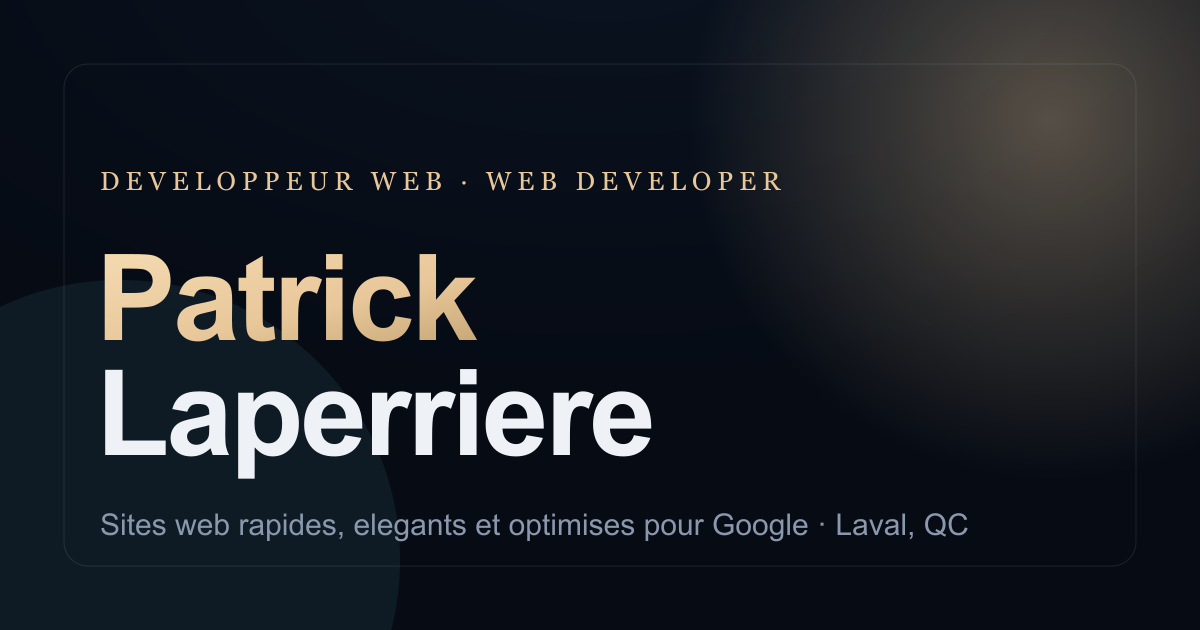
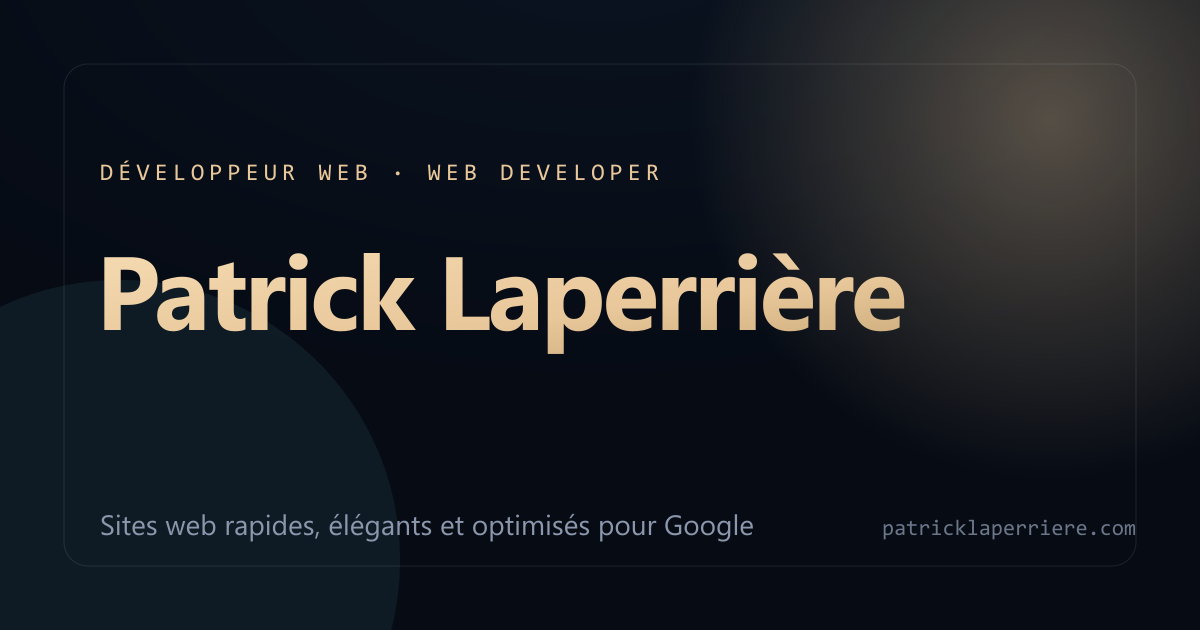
SEO: per-page OG images, richer schema, internal linking
- npm run og generates branded OG images (default + per service + per project);
  wired ogImage on service + case-study pages, and into CreativeWork schema.
- ProfessionalService now carries an OfferCatalog of the 3 services; each
  service page adds a Service node (provider, areaServed, languages).
- Related-services cross-links on service pages; more-work cross-links on
  case studies (stronger internal link graph).

diff --git a/src/lib/schema.ts b/src/lib/schema.ts
@@ -3,8 +3,33 @@
 
 import { SITE } from '../config';
 import type { Locale } from '../i18n/routes';
+import { path } from '../i18n/routes';
+import { useTranslations } from '../i18n';
 
 const abs = (p: string) => (p.startsWith('http') ? p : SITE.domain + p);
+
+/** OfferCatalog of the three services, language-aware. */
+function offerCatalog(locale: Locale) {
+  const tr = useTranslations(locale);
+  const services = [
+    { svc: tr.services.web, key: 'svcWeb' as const },
+    { svc: tr.services.seo, key: 'svcSeo' as const },
+    { svc: tr.services.shopify, key: 'svcShopify' as const },
+  ];
+  return {
+    '@type': 'OfferCatalog',
+    name: tr.nav.services,
+    itemListElement: services.map(({ svc, key }) => ({
+      '@type': 'Offer',
+      itemOffered: {
+        '@type': 'Service',
+        name: svc.title,
+        description: svc.blurb,
+        url: abs(path(key, locale)),
+      },
+    })),
+  };
+}
 
 /** Person — Patrick Laperrière. Used site-wide. */
 export function personSchema(locale: Locale) {
@@ -57,7 +82,28 @@ export function professionalServiceSchema(locale: Locale) {
       addressRegion: SITE.region,
       addressCountry: SITE.country,
     },
+    hasOfferCatalog: offerCatalog(locale),
     sameAs: Object.values(SITE.socials),
+  };
+}
+
+/** Service node — for an individual service page. */
+export function serviceSchema(opts: {
+  name: string;
+  description: string;
+  url: string;
+  serviceType: string;
+  locale: Locale;
+}) {
+  return {
+    '@type': 'Service',
+    name: opts.name,
+    description: opts.description,
+    serviceType: opts.serviceType,
+    url: abs(opts.url),
+    provider: { '@id': `${SITE.domain}/#person` },
+    areaServed: SITE.areaServed[opts.locale].map((name) => ({ '@type': 'AdministrativeArea', name })),
+    availableLanguage: ['fr-CA', 'en-CA'],
   };
 }
 
